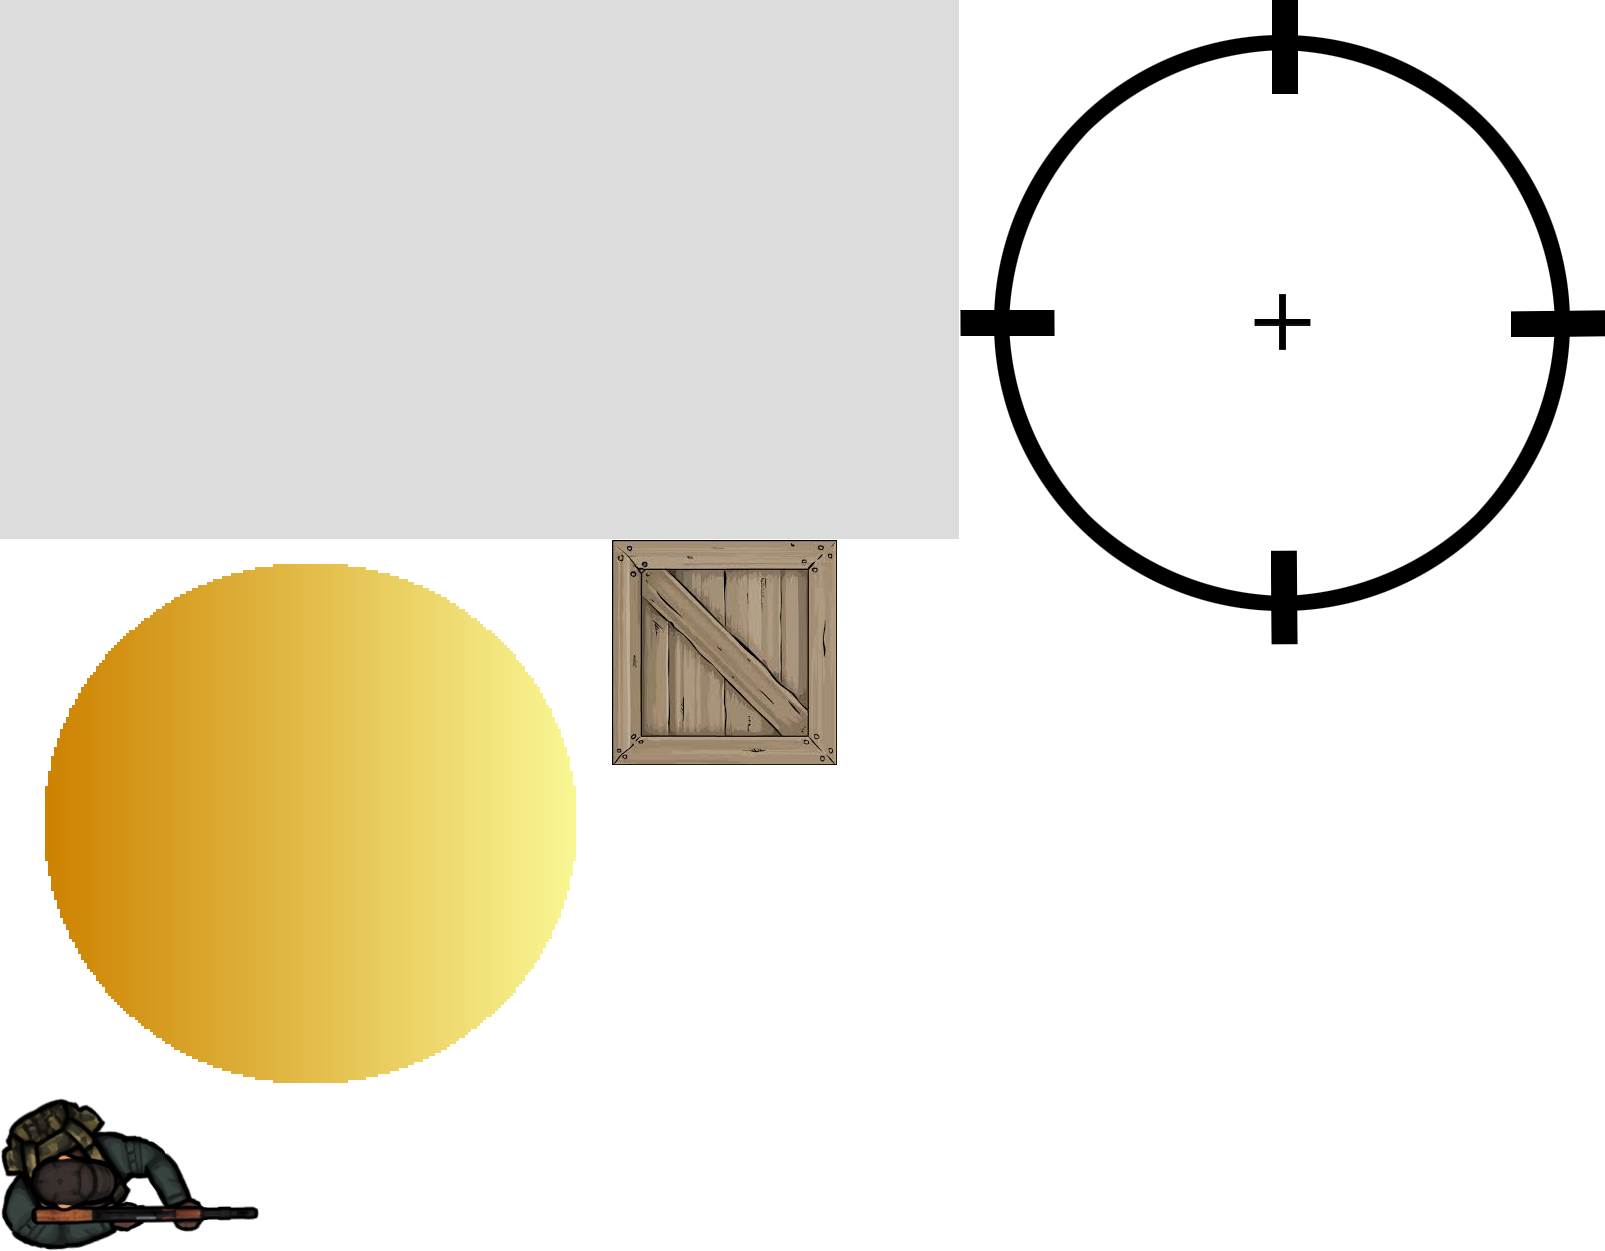
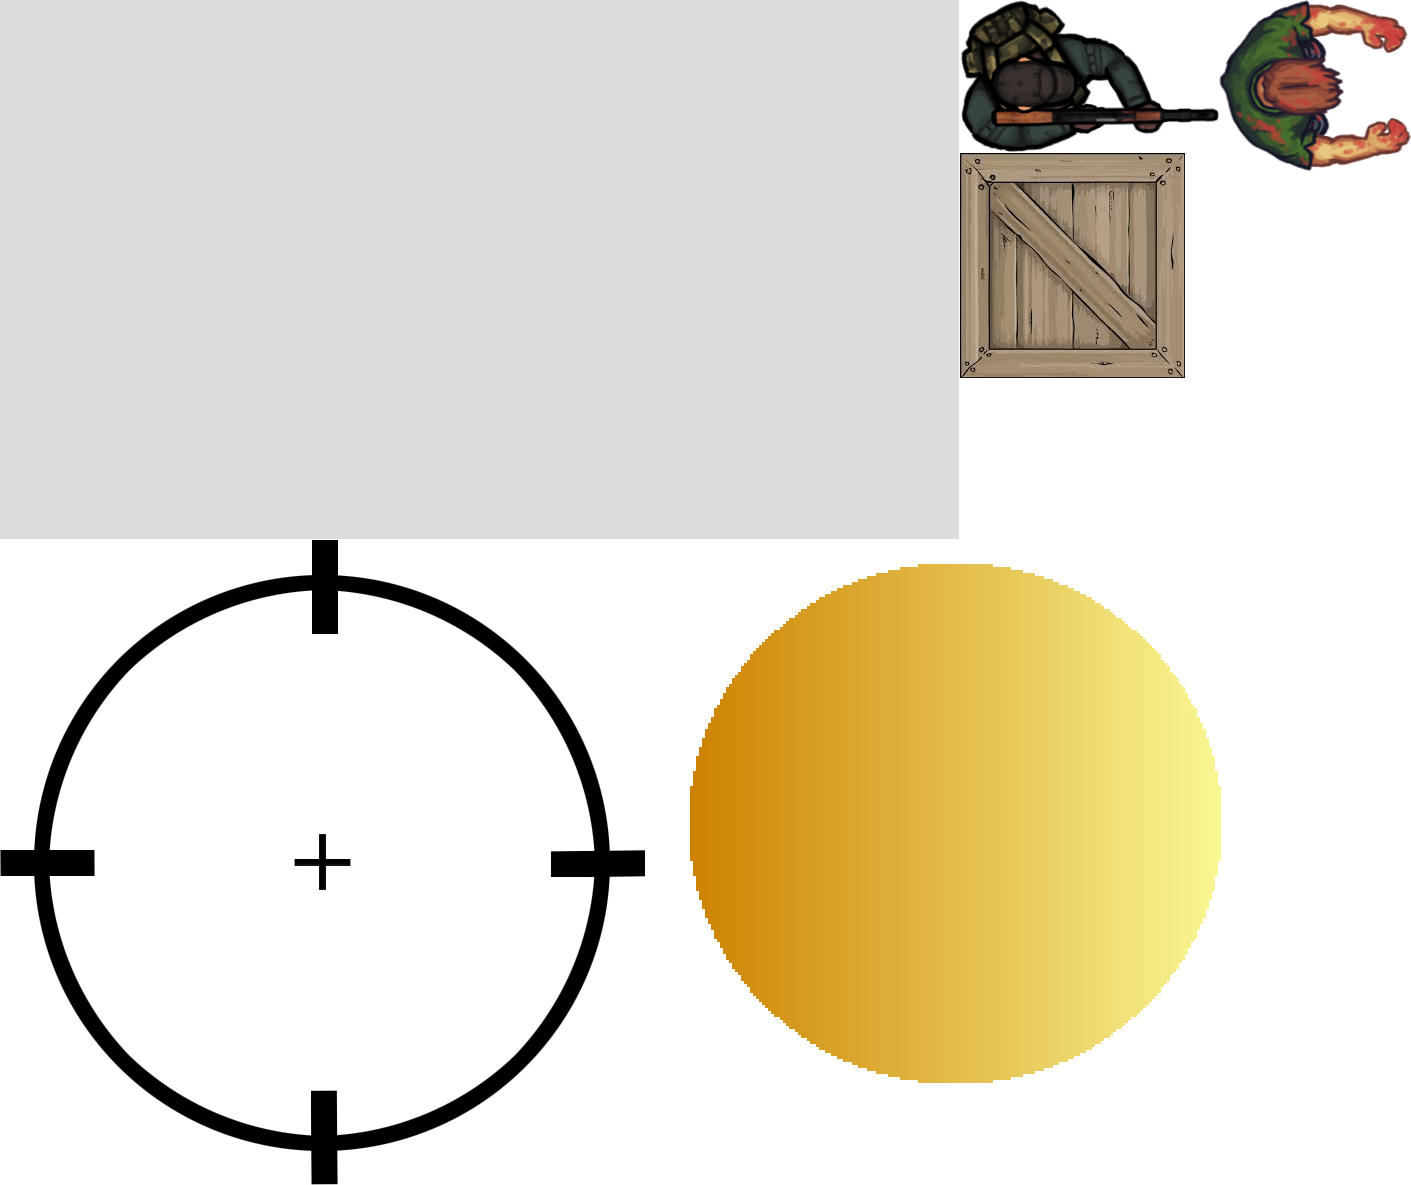
Zombies

diff --git a/MadCat/MadCat/Demo.cs b/MadCat/MadCat/Demo.cs
@@ -19,7 +19,7 @@ namespace NutPacker.Content
         {
             get
             {
-                return new Microsoft.Xna.Framework.Rectangle(960, 0, 645, 645);
+                return new Microsoft.Xna.Framework.Rectangle(0, 540, 645, 645);
             }
         }
         [NutPackerLib.OriginalNameAttribute("background.png")]
@@ -35,7 +35,7 @@ namespace NutPacker.Content
         {
             get
             {
-                return new Microsoft.Xna.Framework.Rectangle(612, 540, 225, 225);
+                return new Microsoft.Xna.Framework.Rectangle(960, 153, 225, 225);
             }
         }
         [NutPackerLib.OriginalNameAttribute("bullet.png")]
@@ -43,7 +43,7 @@ namespace NutPacker.Content
         {
             get
             {
-                return new Microsoft.Xna.Framework.Rectangle(0, 540, 612, 558);
+                return new Microsoft.Xna.Framework.Rectangle(645, 540, 612, 558);
             }
         }
         [NutPackerLib.OriginalNameAttribute("hero.png")]
@@ -51,7 +51,15 @@ namespace NutPacker.Content
         {
             get
             {
-                return new Microsoft.Xna.Framework.Rectangle(0, 1098, 259, 153);
+                return new Microsoft.Xna.Framework.Rectangle(960, 0, 259, 153);
+            }
+        }
+        [NutPackerLib.OriginalNameAttribute("zombie.png")]
+        public static Microsoft.Xna.Framework.Rectangle Zombie
+        {
+            get
+            {
+                return new Microsoft.Xna.Framework.Rectangle(1219, 0, 192, 172);
             }
         }
     }

diff --git a/MadCat/MadCat/Zombie.cs b/MadCat/MadCat/Zombie.cs
@@ -5,13 +5,13 @@ using NutEngine.Physics.Shapes;
 
 namespace MadCat
 {
-    public class Hero : Entity
+    public class Zombie : Entity
     {
         private RigidBody<Circle> body;
 
-        public Hero(Vector2 position)
+        public Zombie(Vector2 position, Hero hero)
         {
-            var sprite = Assets.Hero;
+            var sprite = Assets.Zombie;
             sprite.Scale = new Vector2(0.2f, 0.2f);
 
             body = new RigidBody<Circle>(new Circle(20f)) {
@@ -22,12 +22,10 @@ namespace MadCat
             body.Material.Restitution = 0.5f;
 
             AddComponents(
-                new InputComponent(),
-                new WeaponComponent(),
-                new HealthComponent(1),
                 new BodyComponent(body),
-                new SpriteComponent(sprite),
-                new AimComponent(Director.World)
+                new HealthComponent(5),
+                new ZombieComponent(hero),
+                new SpriteComponent(sprite)
             );
 
             Director.Entities.Add(this);
@@ -35,8 +33,8 @@ namespace MadCat
             Director.World.AddChild(sprite);
 
             body.OnCollision = (collided) => {
-                if (collided.Owner is Zombie) {
-                    GetComponent<HealthComponent>().Health = 0;
+                if (collided.Owner is Bullet) {
+                    GetComponent<HealthComponent>().Health--;
                 }
             };
         }

diff --git a/MadCat/MadCat/DemoScene.cs b/MadCat/MadCat/DemoScene.cs
@@ -31,10 +31,6 @@ namespace MadCat
             background.Position = new Vector2(App.ScreenWidth / 2.0f, App.ScreenHeight / 2.0f);
             World.AddChild(background);
 
-            hero = new Hero(
-                new Vector2(480f, 270f)
-            );
-
             Vector2[] positions = {
                 new Vector2(-100f, 0f),
                 new Vector2(960f, 0f),
@@ -56,7 +52,19 @@ namespace MadCat
                 );
             }
 
+            hero = new Hero(
+                new Vector2(480f, 270f)
+            );
+
             Random random = new Random();
+
+            for (int i = 0; i < 10; i++) {
+                var zombie = new Zombie(
+                    new Vector2(random.Next(960), random.Next(540)),
+                    hero
+                );
+            }
+
             for (int i = 0; i < 5; i++) {
                 var box = new Box(
                     new Vector2(random.Next(960), random.Next(540))

diff --git a/MadCat/MadCat/Components/ZombieComponent.cs b/MadCat/MadCat/Components/ZombieComponent.cs
@@ -1,0 +1,31 @@
+using NutEngine;
+using System;
+
+namespace MadCat
+{
+    public class ZombieComponent : Component
+    {
+        private const float runVelocity = 50.0f;
+        private Hero hero;
+
+        public ZombieComponent(Hero hero)
+        {
+            this.hero = hero;
+        }
+
+        public override void Update(float deltaTime)
+        {
+            var body = Entity.GetComponent<BodyComponent>().Body;
+            var heroBody = hero.GetComponent<BodyComponent>().Body;
+
+            var vec = (heroBody.Position - body.Position);
+            vec.Normalize();
+            vec *= runVelocity;
+
+            body.Velocity = vec;
+
+            var sprite = Entity.GetComponent<SpriteComponent>().Sprite;
+            sprite.Rotation = (float)Math.Atan2(vec.Y, vec.X);
+        }
+    }
+}

diff --git a/MadCat/MadCat/Components/HealthComponent.cs b/MadCat/MadCat/Components/HealthComponent.cs
@@ -1,0 +1,21 @@
+using NutEngine;
+
+namespace MadCat
+{
+    public class HealthComponent : Component
+    {
+        public int Health { get; set; }
+
+        public HealthComponent(int health)
+        {
+            Health = health;
+        }
+
+        public override void Update(float deltaTime)
+        {
+            if (Health <= 0) {
+                Entity.RemoveComponent<BodyComponent>();
+            }
+        }
+    }
+}

diff --git a/MadCat/MadCat/Assets.cs b/MadCat/MadCat/Assets.cs
@@ -25,6 +25,9 @@ namespace MadCat
         public static Sprite Aim {
             get => new Sprite(Texture, Sprites.Aim);
         }
+        public static Sprite Zombie {
+            get => new Sprite(Texture, Sprites.Zombie);
+        }
 
         public static void Init(ContentManager Content)
         {
